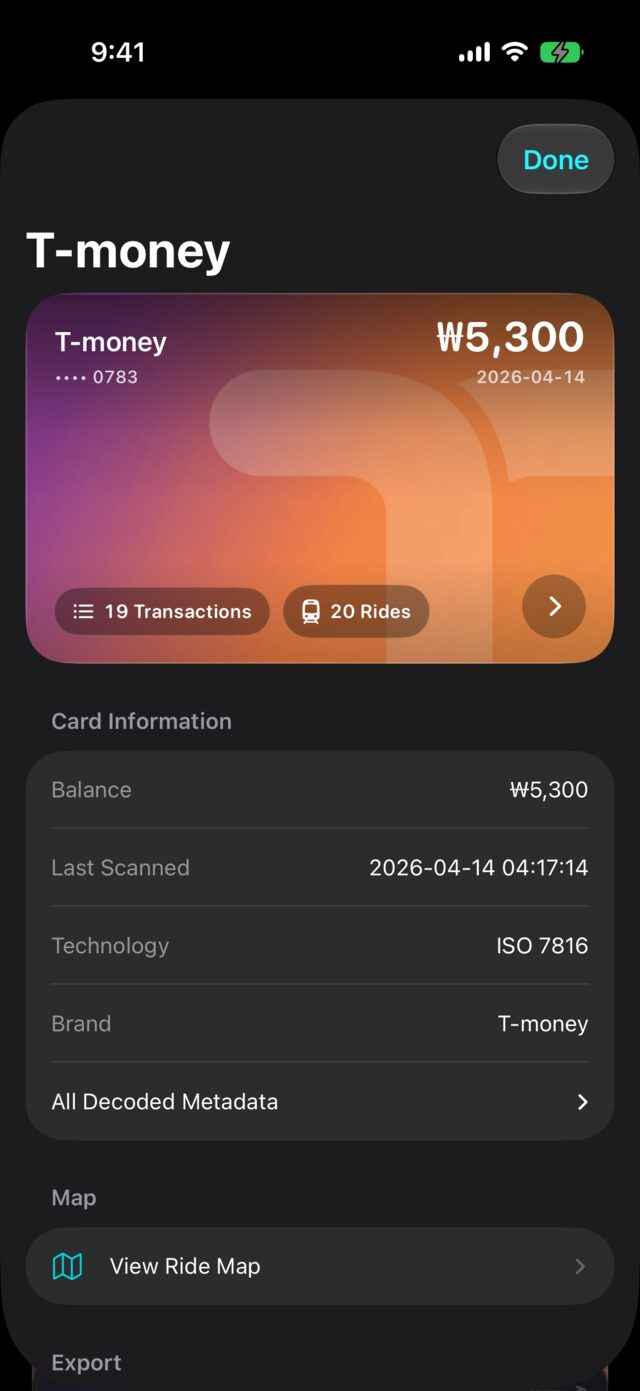
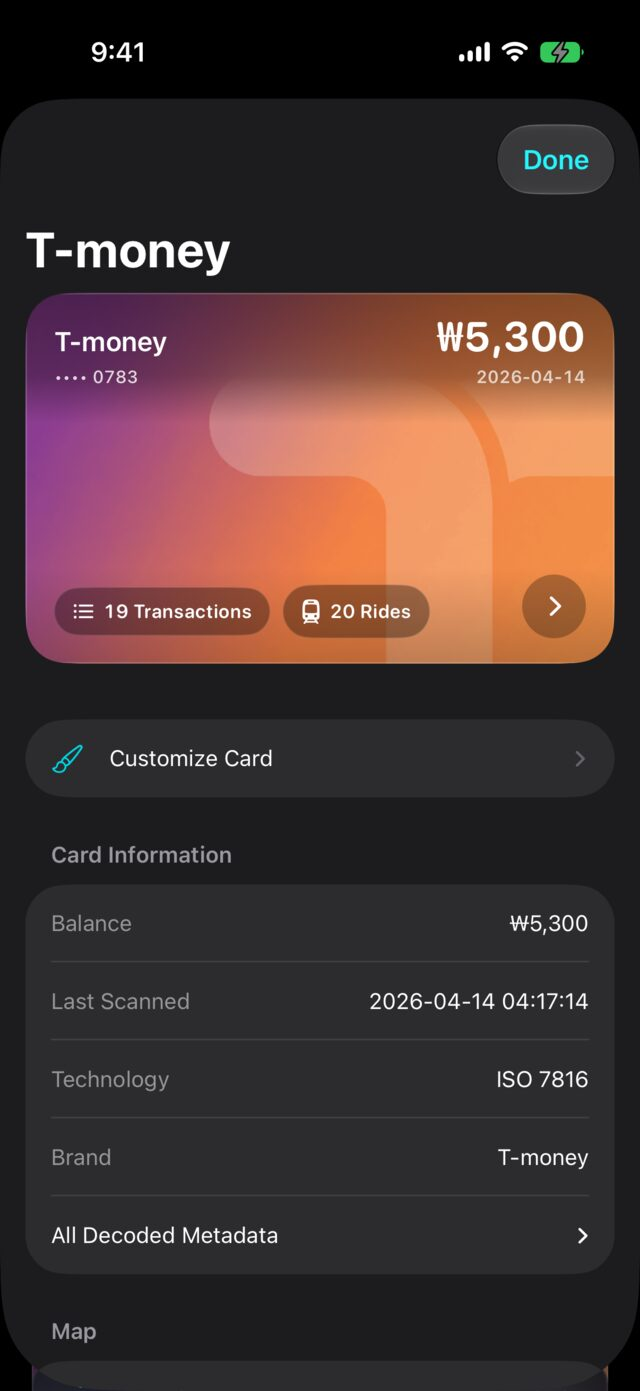
Show frosted card headers in the Pro wallet and detail shots
Recapture the wallet and card-detail screenshots from CardBal 2.4.0
with the optional Frosted Header style, so card names and balances no
longer sit on top of the card designs' own logos. Regenerate the
responsive copies and the share images, and record the change in the
screenshot manifest.

diff --git a/README.md b/README.md
@@ -48,7 +48,7 @@ Edit `src/locales.mjs`, `src/site.css`, `src/site.js`, and `scripts/build.mjs`. 
 Screenshots come from two sources, both recorded in `src/assets/screenshots/manifest.json`:
 
 - `edy`, `climate`, `octopus`: real, unaltered iPhone screenshots from the app's public App Store listing (`6760978958`), used in the scroll story.
-- `pro-*`: CardBal 2.4.0 captured on the iPhone 17 Pro Simulator in dark appearance, with the developer's own iCloud-synced cards and the app's masked serial-number setting. They power the hero, the Pro tools section, and the share images.
+- `pro-*`: CardBal 2.4.0 captured on the iPhone 17 Pro Simulator in dark appearance, with the developer's own iCloud-synced cards and the app's masked serial-number setting. They power the hero, the Pro tools section, and the share images. The wallet and card-detail shots show cards with the optional Frosted Header style turned on.
 
 `-640` and `-900` copies are plain downscales for responsive `srcset`. The images show the English interface in every website locale; captions and alternate text are translated. Readout values on the page are transcribed from the matching screenshots. The website does not perform an NFC scan.
 
